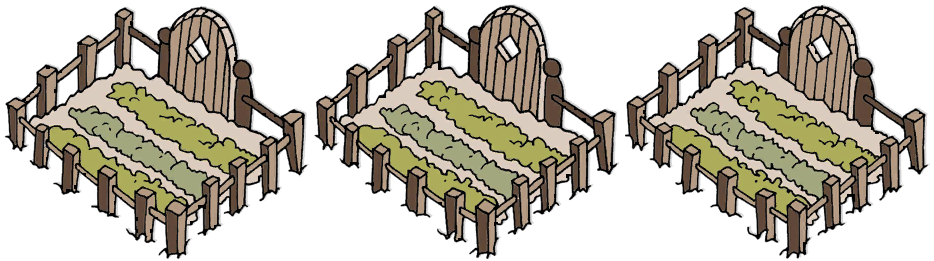
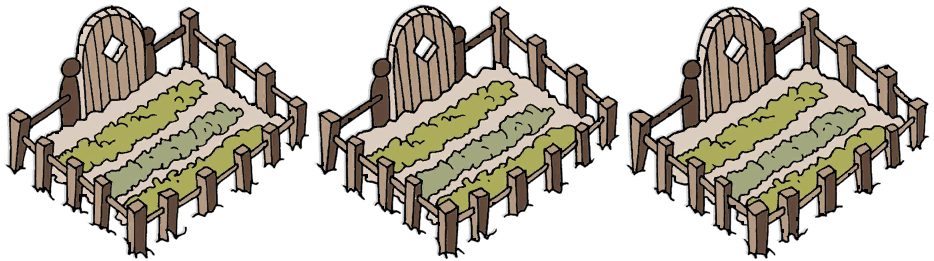
Tripper 위치 수정

diff --git a/CupheadProject/CupheadProject/Tripper.cpp b/CupheadProject/CupheadProject/Tripper.cpp
@@ -60,12 +60,12 @@ void Tripper::Draw(HDC& hdc)
 
 	int animX = unitX * curAnimCnt;
 
-	image.Draw(hdc, TRIPPER_X_POS + camera_x, TRIPPER_Y_POS + camera_y, unitX, unitY, animX, 0, unitX, unitY);
+	image.Draw(hdc, x + camera_x, y + camera_y, unitX, unitY, animX, 0, unitX, unitY);
 
-	keyCollider.left = TRIPPER_X_POS + 45 - 60;
-	keyCollider.right = TRIPPER_X_POS - 45 + width + 60;
-	keyCollider.top = TRIPPER_Y_POS + 45 - 60;
-	keyCollider.bottom = TRIPPER_Y_POS - 45 + height + 60;
+	keyCollider.left = x + 45 - 60;
+	keyCollider.right = x - 45 + width + 60;
+	keyCollider.top = y + 45 - 60;
+	keyCollider.bottom = y - 45 + height + 60;
 
 	if (isCollidedPlayer)
 		pressKeyImg.Draw(hdc, WINDOWS_WIDTH / 2 - pressKeyImg.GetWidth() / 2, 100, pressKeyImg.GetWidth(), pressKeyImg.GetHeight());

diff --git a/CupheadProject/CupheadProject/WorldMap.cpp b/CupheadProject/CupheadProject/WorldMap.cpp
@@ -7,7 +7,7 @@ WorldMap::WorldMap()
 	CreateImage();
 	width = leftMapImg.GetWidth() * WORLD_MAP_SCALE + rightMapImg.GetWidth() * WORLD_MAP_SCALE;
 	height = leftMapImg.GetHeight() * WORLD_MAP_SCALE;
-	tripper = new Tripper();
+	tripper = new Tripper(*rectView, 2000, 750);
 	LoadMapInfo();
 }
 

diff --git a/CupheadProject/CupheadProject/CupheadProject.cpp b/CupheadProject/CupheadProject/CupheadProject.cpp
@@ -246,7 +246,7 @@ LRESULT CALLBACK WndProc(HWND hWnd, UINT message, WPARAM wParam, LPARAM lParam)
     case WM_PAINT:
         CreateDoubbleBuffering(hWnd);
 
-         gameMgr->Draw(hdc);
+        gameMgr->Draw(hdc);
         gameMgr->Update();
 
         EndDoubleBuffering(hWnd);
